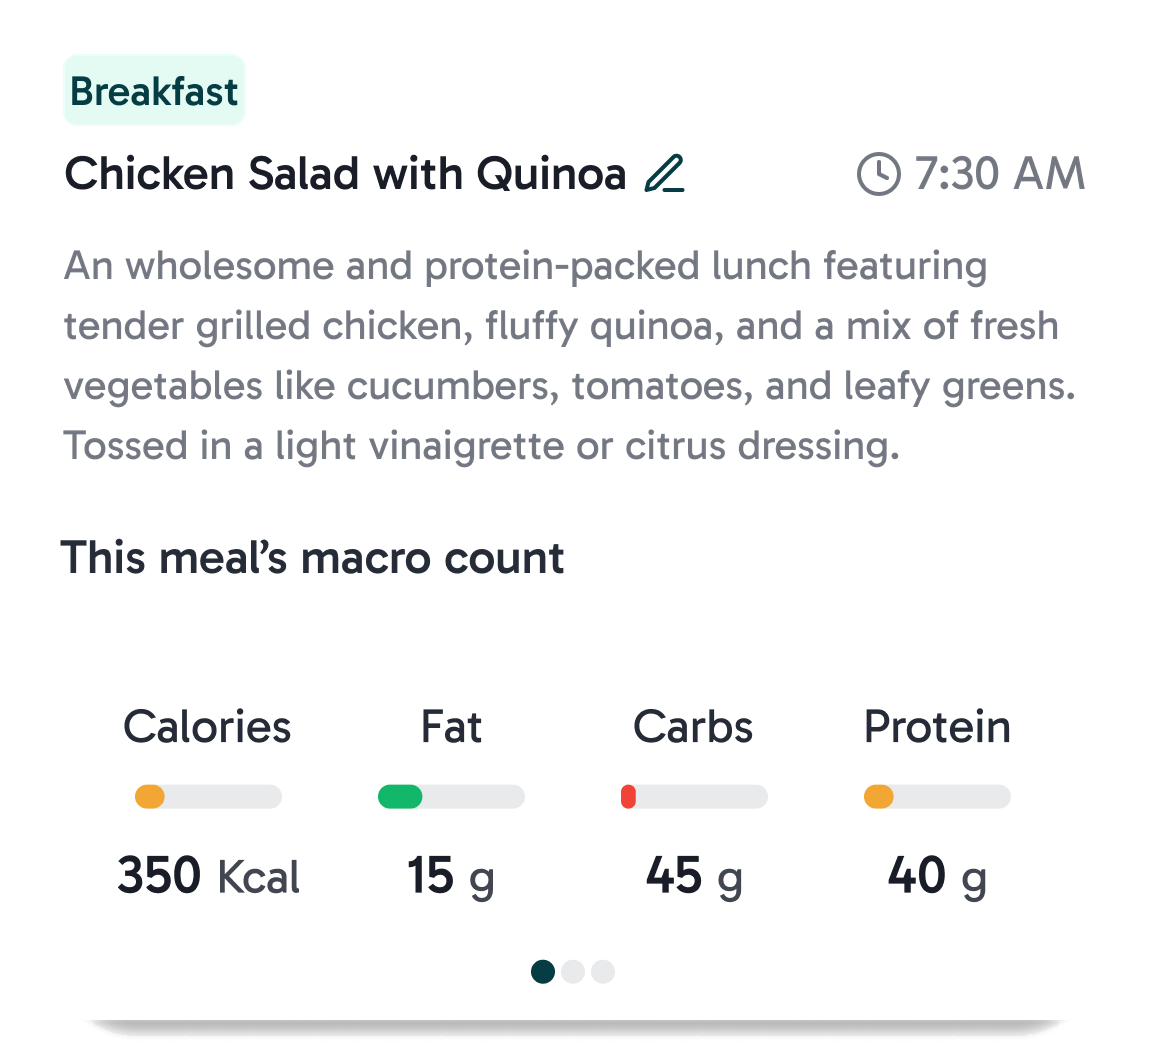
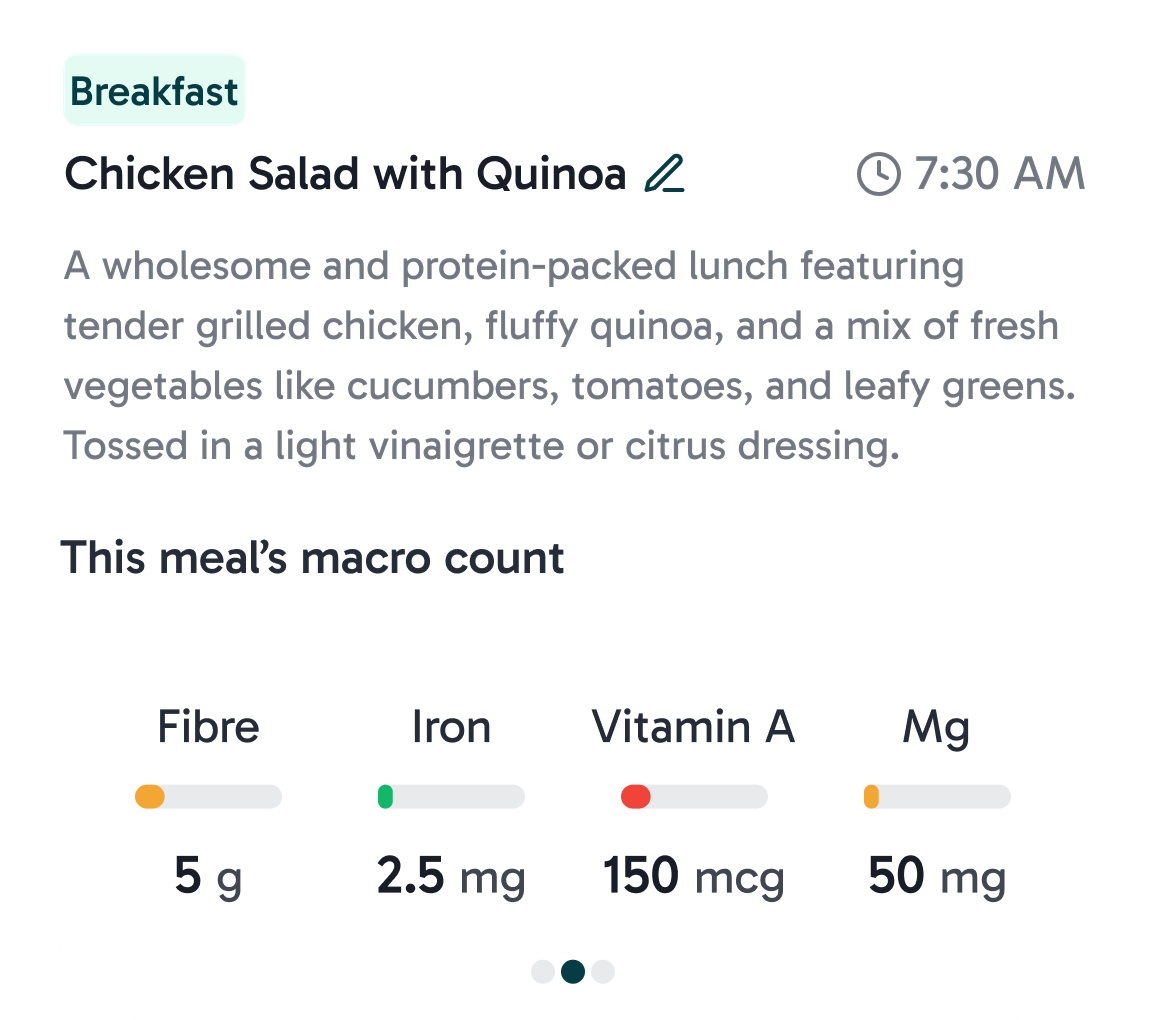
Re-export land frame (drops stray card shadow); rename Symptom label to Meal

diff --git a/index.html b/index.html
@@ -1117,7 +1117,7 @@
                   <div class="f1-nd f1-nd-3">03</div>
                 </div>
                 <div class="f1-labels">
-                  <span class="f1-lbl f1-lbl-1">Symptom</span>
+                  <span class="f1-lbl f1-lbl-1">Meal</span>
                   <span class="f1-lbl f1-lbl-2">Macro</span>
                   <span class="f1-lbl f1-lbl-3">Trend</span>
                 </div>

diff --git a/amazon-music.html b/amazon-music.html
@@ -1369,7 +1369,7 @@
                 <div class="f1-nd f1-nd-3">03</div>
               </div>
               <div class="f1-labels">
-                <span class="f1-lbl f1-lbl-1">Symptom</span>
+                <span class="f1-lbl f1-lbl-1">Meal</span>
                 <span class="f1-lbl f1-lbl-2">Macro</span>
                 <span class="f1-lbl f1-lbl-3">Trend</span>
               </div>

diff --git a/carbon-sustain.html b/carbon-sustain.html
@@ -1010,7 +1010,7 @@
                 <div class="f1-nd f1-nd-3">03</div>
               </div>
               <div class="f1-labels">
-                <span class="f1-lbl f1-lbl-1">Symptom</span>
+                <span class="f1-lbl f1-lbl-1">Meal</span>
                 <span class="f1-lbl f1-lbl-2">Macro</span>
                 <span class="f1-lbl f1-lbl-3">Trend</span>
               </div>
